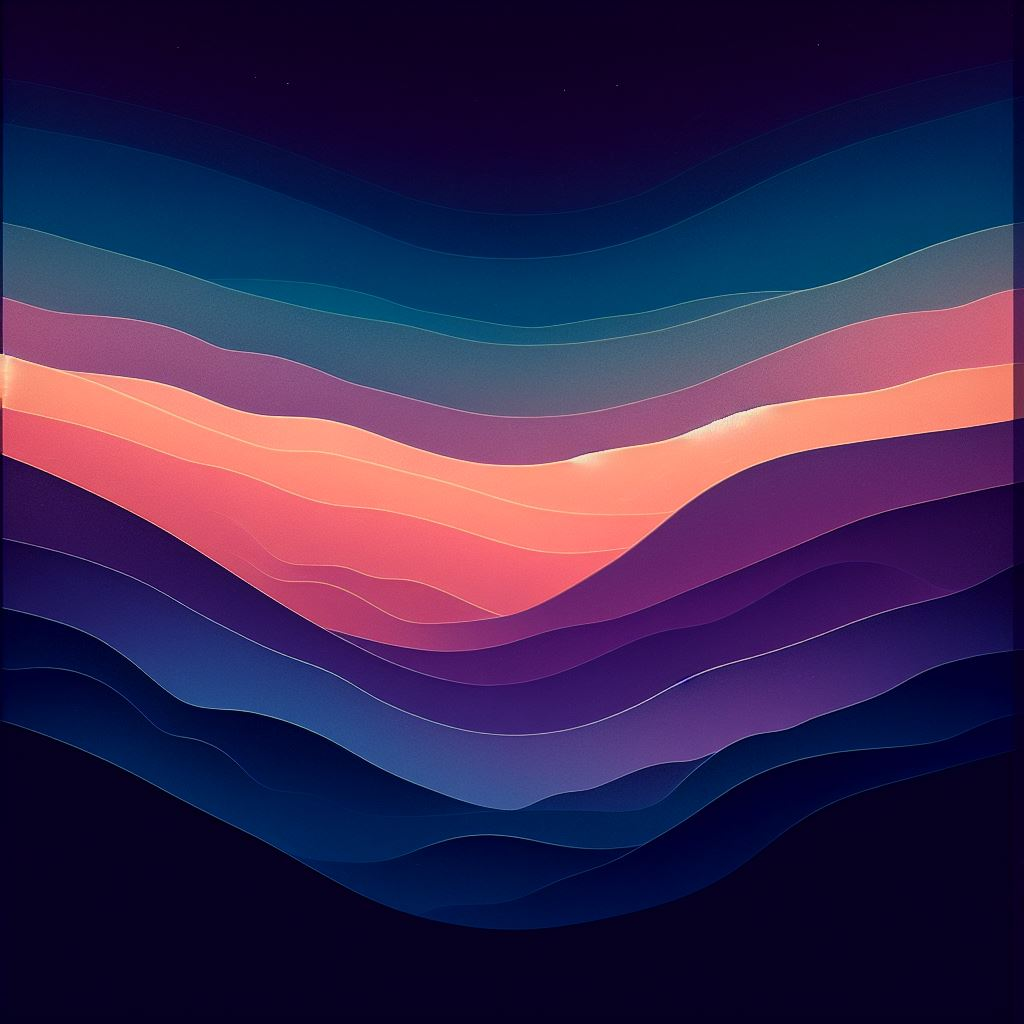
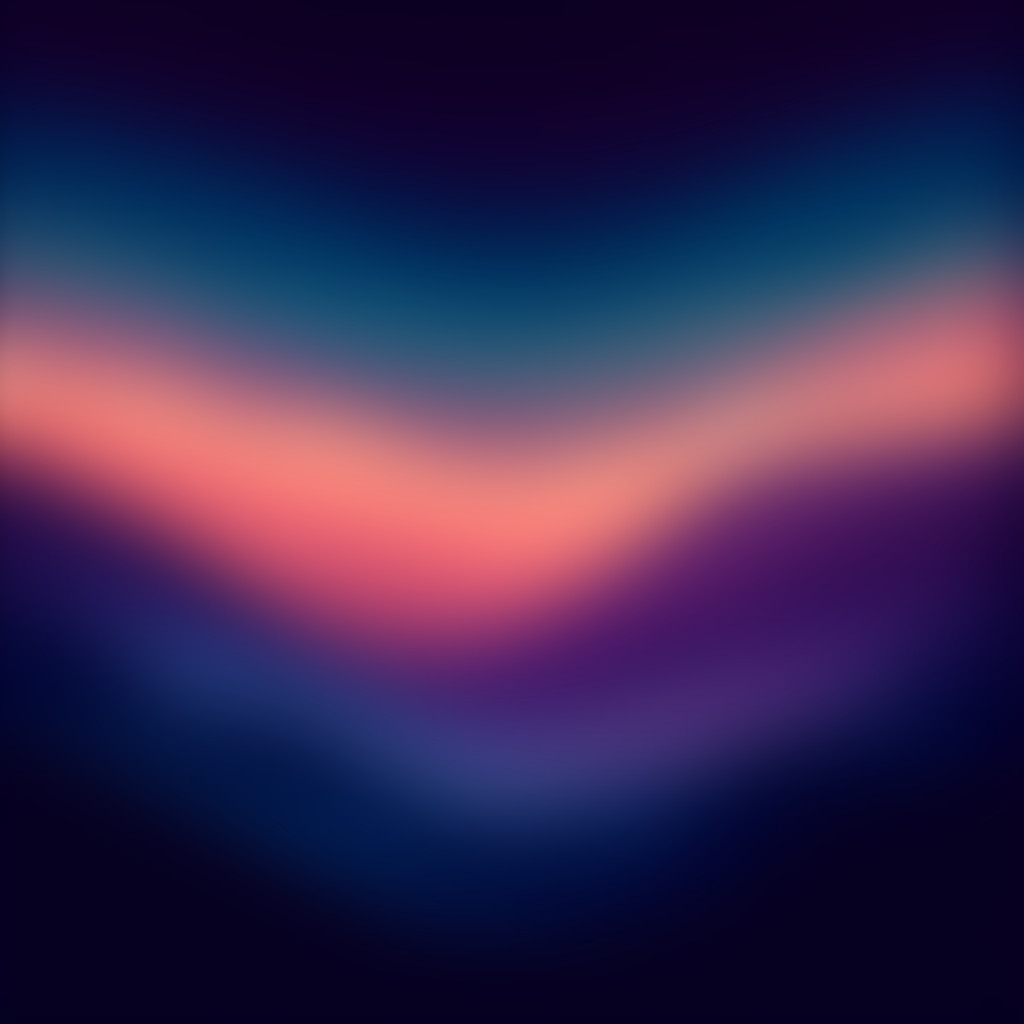
Fix visual inconsistency, optimize geolocation search

diff --git a/src/hooks/useGeoposition.ts b/src/hooks/useGeoposition.ts
@@ -1,0 +1,107 @@
+import axios from 'axios';
+import { useCallback, useState } from 'react';
+import { AxiosError } from 'axios';
+
+import { Location } from '../vite-env';
+
+const REVERSE_GEOCODING_API_URL = 'https://api.bigdatacloud.net/data/reverse-geocode-client';
+
+enum AdminAreaLevel {
+  COUNTRY = 2,
+  STATE = 4,
+  CITY = 7,
+}
+
+type Informative = Readonly<{
+  name: string;
+  geonameId?: number;
+}>;
+
+type Administrative = Readonly<
+  Informative & {
+    adminLevel: AdminAreaLevel;
+  }
+>;
+
+type ReverseGeocodeLocation = Readonly<{
+  latitude: number;
+  longitude: number;
+  countryName: string;
+  principalSubdivision: string;
+  city: string;
+  localityInfo: Readonly<{
+    administrative: Array<Administrative>;
+    informative: Array<Informative>;
+  }>;
+}>;
+
+function reverseGeocodeLocationToLocation({
+  city,
+  countryName,
+  principalSubdivision,
+  latitude,
+  longitude,
+  localityInfo,
+}: ReverseGeocodeLocation): Location {
+  const cityInfo = localityInfo.administrative.find(
+    (info) => info.adminLevel === AdminAreaLevel.CITY || info.name === city,
+  );
+
+  const locationId = cityInfo?.geonameId || [city, countryName, principalSubdivision].join(',');
+
+  return {
+    id: locationId,
+    name: city,
+    country: countryName,
+    admin1: principalSubdivision,
+    latitude: latitude,
+    longitude: longitude,
+  };
+}
+
+async function getLocationByCoords(coords: GeolocationCoordinates) {
+  const { data } = await axios.get<ReverseGeocodeLocation>(REVERSE_GEOCODING_API_URL, {
+    params: {
+      latitude: coords.latitude,
+      longitude: coords.longitude,
+      localityLanguage: 'en',
+    },
+  });
+
+  return reverseGeocodeLocationToLocation(data);
+}
+
+function getPosition(options?: PositionOptions) {
+  return new Promise<GeolocationPosition>((resolve, reject) => {
+    const geolocation = typeof navigator !== 'undefined' ? navigator.geolocation : undefined;
+
+    if (!geolocation) {
+      reject(new Error('POSITION_UNAVAILABLE'));
+
+      return;
+    }
+
+    geolocation.getCurrentPosition(resolve, reject, options);
+  });
+}
+
+export function useGeoposition() {
+  const [position, setPosition] = useState<null | Location>(null);
+  const [isRequesting, setIsRequesting] = useState<boolean>(false);
+  const [error, setError] = useState<null | AxiosError | GeolocationPositionError>(null);
+
+  const requestPosition = useCallback(async () => {
+    try {
+      setIsRequesting(true);
+
+      const { coords } = await getPosition();
+      setPosition(await getLocationByCoords(coords));
+    } catch (error) {
+      setError(error as AxiosError | GeolocationPositionError);
+    } finally {
+      setIsRequesting(false);
+    }
+  }, []);
+
+  return { isRequesting, position, requestPosition, error };
+}

diff --git a/src/components/Menu/LocationSearch.tsx b/src/components/Menu/LocationSearch.tsx
@@ -17,7 +17,7 @@ import {
 
 import { BaseMenuPage } from './BaseMenuPage';
 
-import { useLocationSearch, useGetCurrentLocation, useLocations } from '../../hooks';
+import { useGeoposition, useSearch, useLocations } from '../../hooks';
 import { Location } from '../../vite-env';
 
 export function LocationSearch({
@@ -30,32 +30,33 @@ export function LocationSearch({
   const [search, setSearch] = useState<string>('');
   const debouncedSearch = useDebounce<string>(search, 500);
 
-  const { results, loading } = useLocationSearch(debouncedSearch?.trim());
+  const { isRequesting, position, requestPosition } = useGeoposition();
+  const { isSearching, results } = useSearch(debouncedSearch?.trim());
   const { current } = useLocations();
 
-  // FIXME: no way to tell what's going on, either add loading/searching/locating state or create a plane async function and handle it manually
-  const { isReady, locate, location } = useGetCurrentLocation();
+  useEffect(() => {
+    if (current) {
+      return;
+    }
+
+    requestPosition();
+  }, [current, requestPosition]);
 
   useEffect(() => {
-    if (current || !isReady || search) {
+    if (!position) {
       return;
     }
 
-    // FIXME: can't clear search input without resetting it to location
-    if (location) {
-      setSearch([location.name, location.country].join(', '));
-
-      return;
-    }
-
-    locate();
-  }, [current, isReady, locate, location, search]);
+    setSearch([position.name, position.country].filter(Boolean).join(', '));
+  }, [position]);
 
   const handleSelect = (option: Location) => {
     setSearch('');
     onSubmit(option);
     onBackButton();
   };
+
+  const isLoading = isRequesting || isSearching;
 
   return (
     <BaseMenuPage
@@ -114,7 +115,7 @@ export function LocationSearch({
         </Card>
       ) : (
         <Box sx={{ display: 'grid', placeContent: 'center', height: '100%' }}>
-          {loading ? (
+          {isLoading ? (
             <CircularProgress color="secondary" />
           ) : (
             <DialogContentText>

diff --git a/src/hooks/useSearch.ts b/src/hooks/useSearch.ts
@@ -14,10 +14,10 @@ const LOCATION_OPTIONS = {
 
 type SearchResult = Readonly<{ generationtime_ms: number; results?: Array<Location> }>;
 
-export function useLocationSearch(name: string) {
+export function useSearch(name: string) {
   const [results, setResults] = useState<Array<Location>>([]);
   const [error, setError] = useState<null | AxiosError>(null);
-  const [loading, setLoading] = useState<boolean>(false);
+  const [isSearching, setIsSearching] = useState<boolean>(false);
 
   useEffect(() => {
     if (!name) {
@@ -27,7 +27,7 @@ export function useLocationSearch(name: string) {
     const controller = new AbortController();
     const signal = controller.signal;
 
-    setLoading(true);
+    setIsSearching(true);
 
     axios
       .get<SearchResult>(GEOCODING_API_URL, {
@@ -39,10 +39,10 @@ export function useLocationSearch(name: string) {
       })
       .then(({ data: { results } }) => setResults(results ?? []))
       .catch((error) => setError(error?.code !== AxiosError.ERR_CANCELED ? error : null))
-      .finally(() => setLoading(false));
+      .finally(() => setIsSearching(false));
 
     return () => controller.abort();
   }, [name]);
 
-  return { results, error, loading };
+  return { isSearching, results, error };
 }

diff --git a/src/components/AtmosphericConditionChart.tsx b/src/components/AtmosphericConditionChart.tsx
@@ -1,6 +1,6 @@
 import { FC } from 'react';
 import { format } from 'date-fns';
-import { LineSeriesType, LineChart, mangoFusionPaletteLight as chartPalette } from '@mui/x-charts';
+import { LineSeriesType, LineChart } from '@mui/x-charts';
 
 import { SeriesForecast } from '../mappers';
 
@@ -20,7 +20,6 @@ const AtmosphericConditionChart: FC<Readonly<{ series: SeriesForecast }>> = ({
   return (
     <LineChart
       sx={{ width: '100%' }}
-      colors={chartPalette}
       height={300}
       margin={{ top: 56, bottom: 32 }}
       yAxis={[
@@ -40,18 +39,20 @@ const AtmosphericConditionChart: FC<Readonly<{ series: SeriesForecast }>> = ({
         {
           ...DEFAULT_SERIES_OPTIONS,
           data: cloudCover,
+          color: '#9080B8',
           label: 'Cloud Cover',
         },
         {
           ...DEFAULT_SERIES_OPTIONS,
           area: false,
+          color: '#E0CFDF',
           data: humidity,
           label: 'Relative Humidity',
         },
         {
           ...DEFAULT_SERIES_OPTIONS,
           data: precipitation,
-          color: '#ab47bc',
+          color: '#474772',
           label: 'Precipitation probability',
         },
       ]}

diff --git a/src/components/Menu/MenuDialog.tsx b/src/components/Menu/MenuDialog.tsx
@@ -114,8 +114,8 @@ export function MenuDialog() {
       case MenuPage.WELCOME:
         return (
           <BaseMenuPage>
-            <Box sx={{ minHeight: '100%', display: 'grid', placeContent: 'center', placeItems: 'center' }}>
-              <Box sx={{ mb: 8, display: 'grid', placeContent: 'center', placeItems: 'center' }}>
+            <Box sx={{ minHeight: '100%', display: 'grid', placeItems: 'center' }}>
+              <Box sx={{ mb: 8, display: 'grid', placeItems: 'center' }}>
                 <Box sx={{ mb: 2 }}>
                   <Meteocon alt="clear day" name="partly-sunny" size={256} />
                 </Box>
@@ -124,8 +124,8 @@ export function MenuDialog() {
                 </Typography>
                 <Typography color="secondary">Weather Forecast</Typography>
               </Box>
-
               <IconButton
+                aria-aria-label="search"
                 onClick={() => setHash(MenuPage.SEARCH)}
                 sx={{
                   backgroundColor: 'secondary.dark',

diff --git a/src/components/Layout.tsx b/src/components/Layout.tsx
@@ -4,7 +4,7 @@ import { CssBaseline, GlobalStyles, ThemeProvider, createTheme } from '@mui/mate
 import type { GlobalStylesProps } from '@mui/material';
 
 // TODO: consider using blurred background, will it be more performant than blurring on device?
-import backgroundImg from '../assets/background.jpg';
+import backgroundImg from '../assets/background-gradient.jpg';
 
 import '@fontsource/roboto/300.css';
 import '@fontsource/roboto/400.css';
@@ -26,8 +26,8 @@ const globalStyles: GlobalStylesProps['styles'] = {
     flexDirection: 'column',
     height: '100%',
     overflow: 'auto',
-    backgroundColor: 'rgba(17, 25, 31, 0.9)',
-    backdropFilter: 'blur(100px)',
+    backgroundColor: 'rgba(17, 25, 31, 0.85)',
+    // backdropFilter: 'blur(100px)',
   },
 };
 

diff --git a/src/components/Reports/CurrentReport.tsx b/src/components/Reports/CurrentReport.tsx
@@ -28,7 +28,9 @@ const ReportTile: FC<PropsWithChildren<Readonly<{ icon: React.ReactNode; title: 
       <Box sx={{ display: 'grid', placeContent: 'center', placeItems: 'center' }}>
         <Box sx={{ display: 'grid', gap: 1, placeItems: 'center' }}>
           {icon}
-          <Typography variant="body1">{title}</Typography>
+          <Typography variant="body1" sx={{ whiteSpace: 'nowrap' }}>
+            {title}
+          </Typography>
         </Box>
         <Typography variant="caption" color="secondary">
           {children}

diff --git a/src/hooks/index.ts b/src/hooks/index.ts
@@ -1,7 +1,7 @@
-export { useLocationSearch } from './useLocationSearch';
+export { useSearch } from './useSearch';
 export { useUserSettings } from './useUserSettings';
 export { useForecast } from './useForecast';
 export { useLocations } from './useLocations';
 export { useUnitsConverter } from './useUnitsConverter';
 export { useLongPress } from './useLongPress';
-export { useGetCurrentLocation } from './useGetCurrentLocation';
+export { useGeoposition } from './useGeoposition';

diff --git a/src/components/Tile.tsx b/src/components/Tile.tsx
@@ -2,7 +2,7 @@ import { FC, PropsWithChildren } from 'react';
 import { Card, CardContent } from '@mui/material';
 
 export const Tile: FC<PropsWithChildren> = ({ children }) => (
-  <Card sx={{ backgroundColor: 'rgba(17, 25, 31, 0.5)' }}>
+  <Card sx={{ backgroundColor: 'rgba(50, 75, 95, 0.2)' }}>
     <CardContent sx={{ '&, &:last-child': { p: '12px 16px' } }}>{children}</CardContent>
   </Card>
 );

diff --git a/src/components/Menu/LocationList/Header.tsx b/src/components/Menu/LocationList/Header.tsx
@@ -11,7 +11,7 @@ export const EditHeader: FC<
   }>
 > = ({ selected, onCancel, onToggle }) => (
   <>
-    <Stack direction="row" alignItems="center" sx={{ pl: 1 }}>
+    <Stack direction="row" alignItems="center" sx={{ pl: 1.5 }}>
       <Checkbox
         sx={{ width: 48, height: 48 }}
         edge="start"
